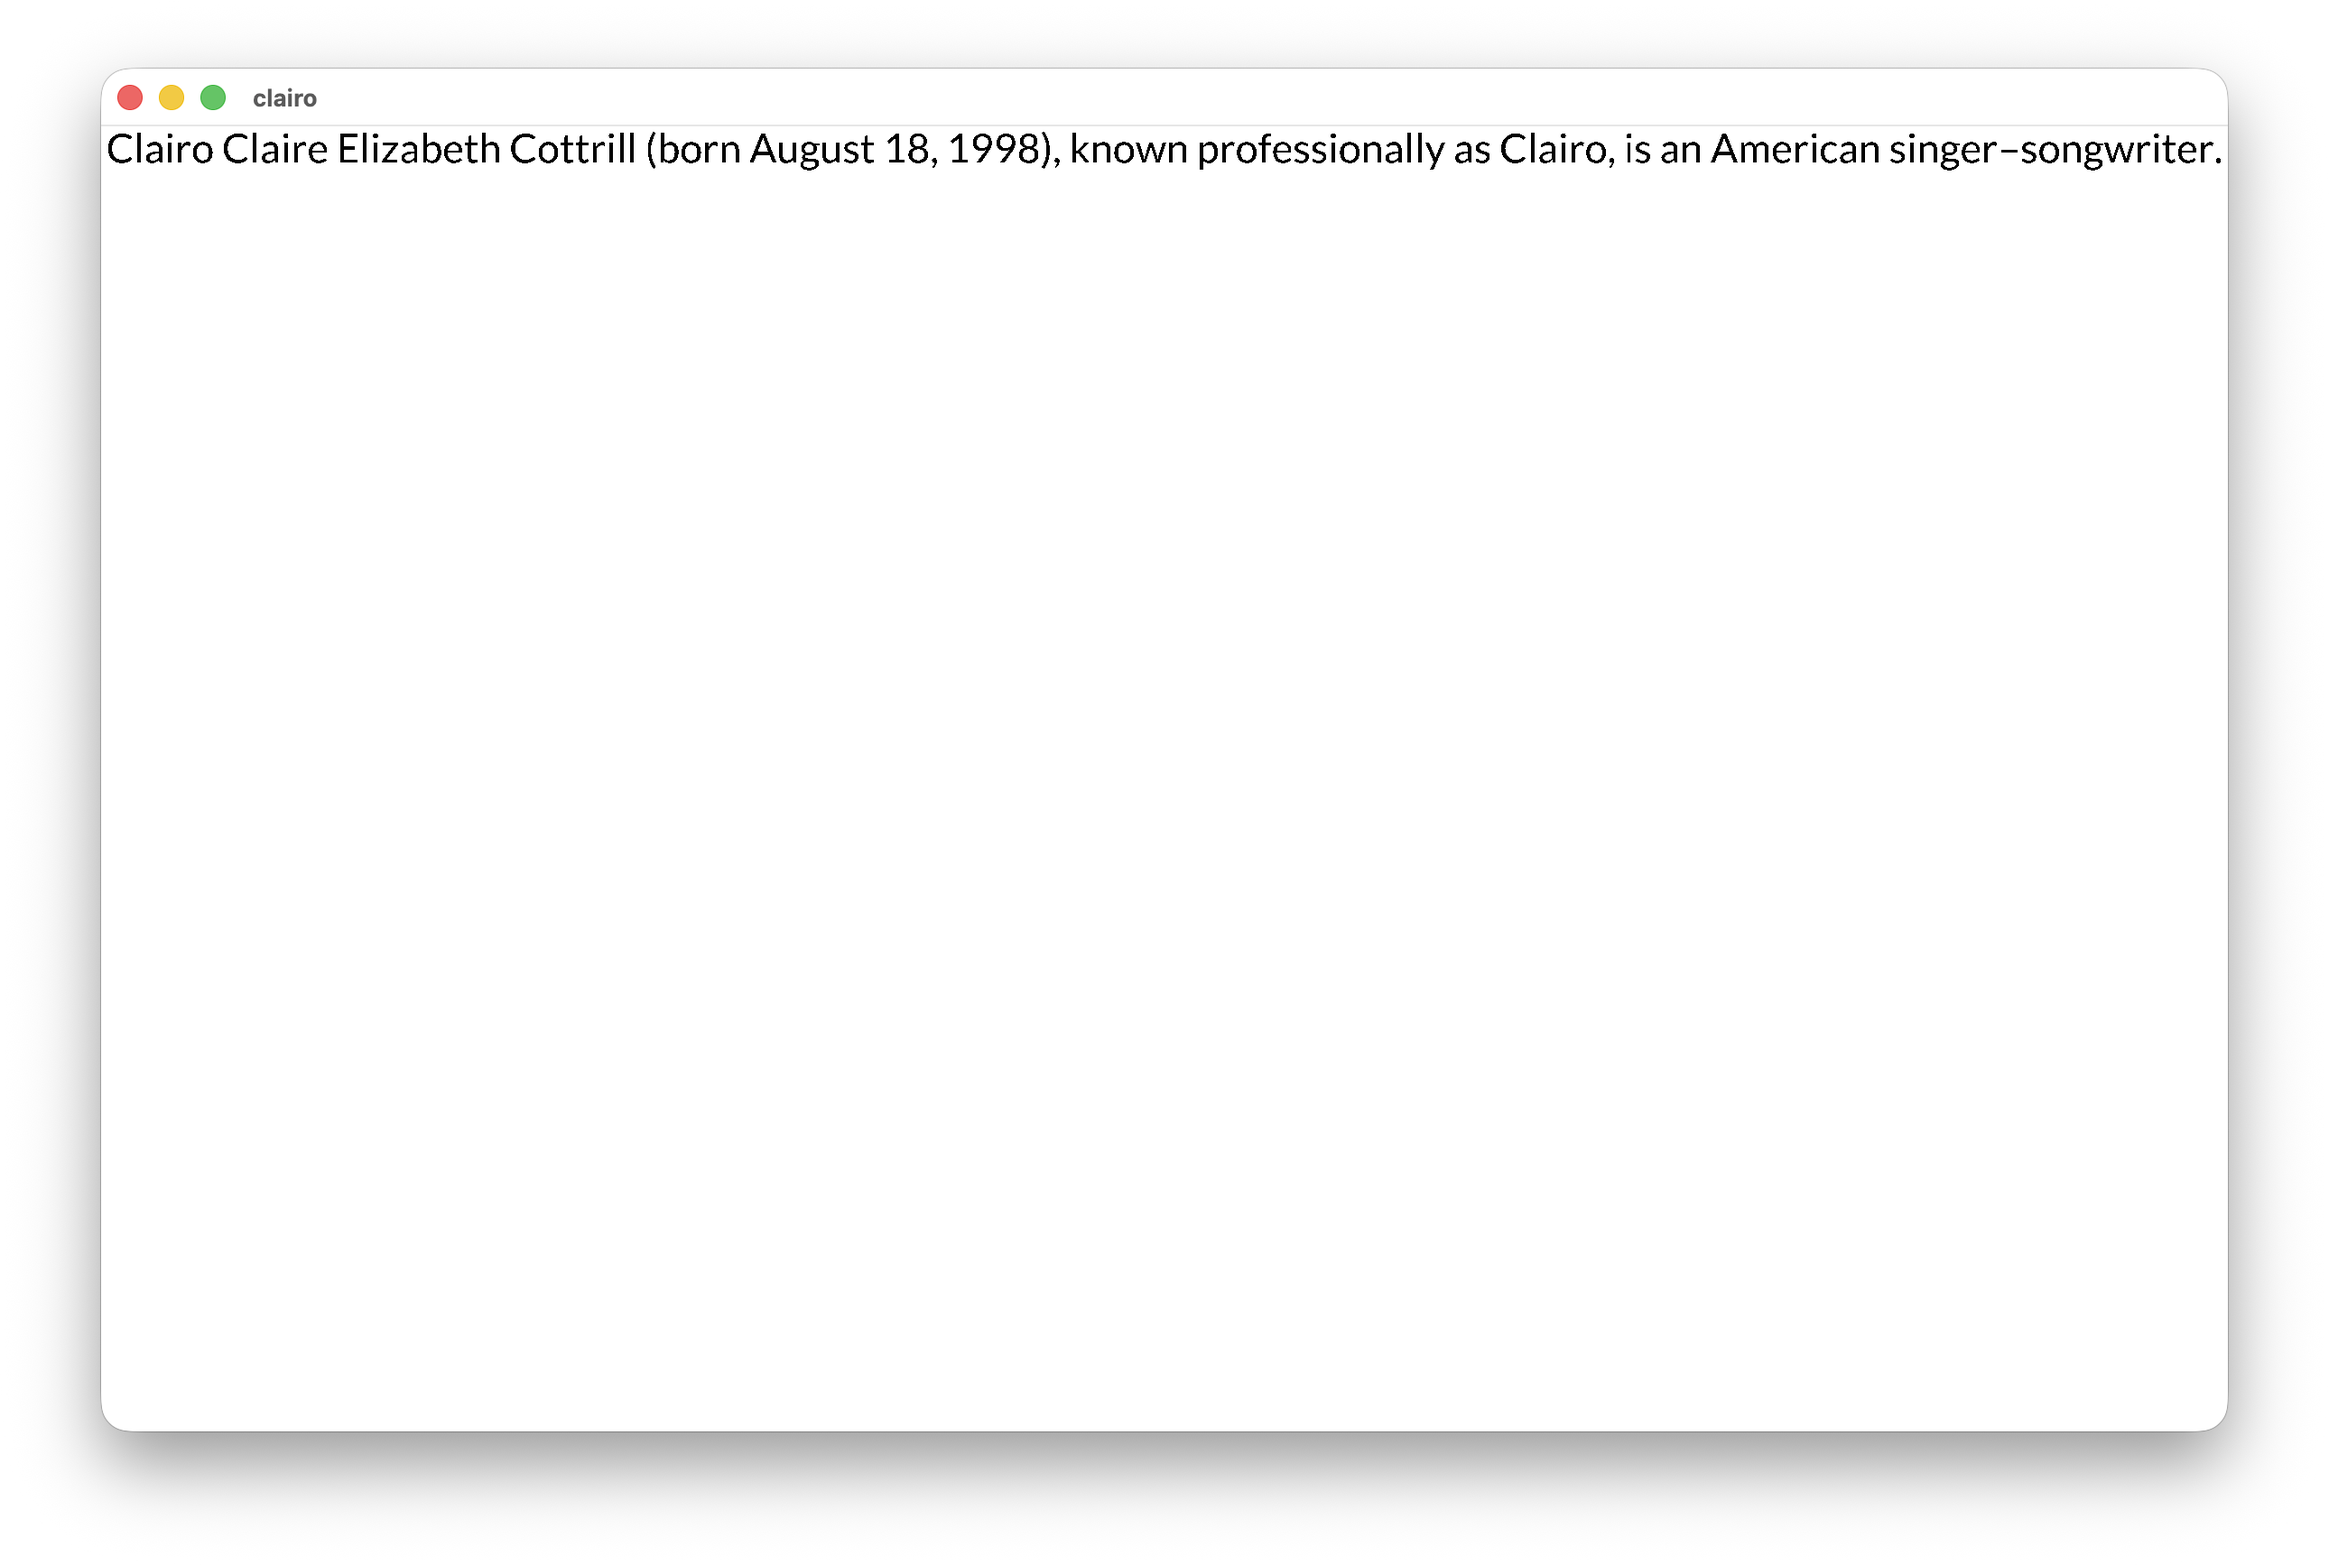
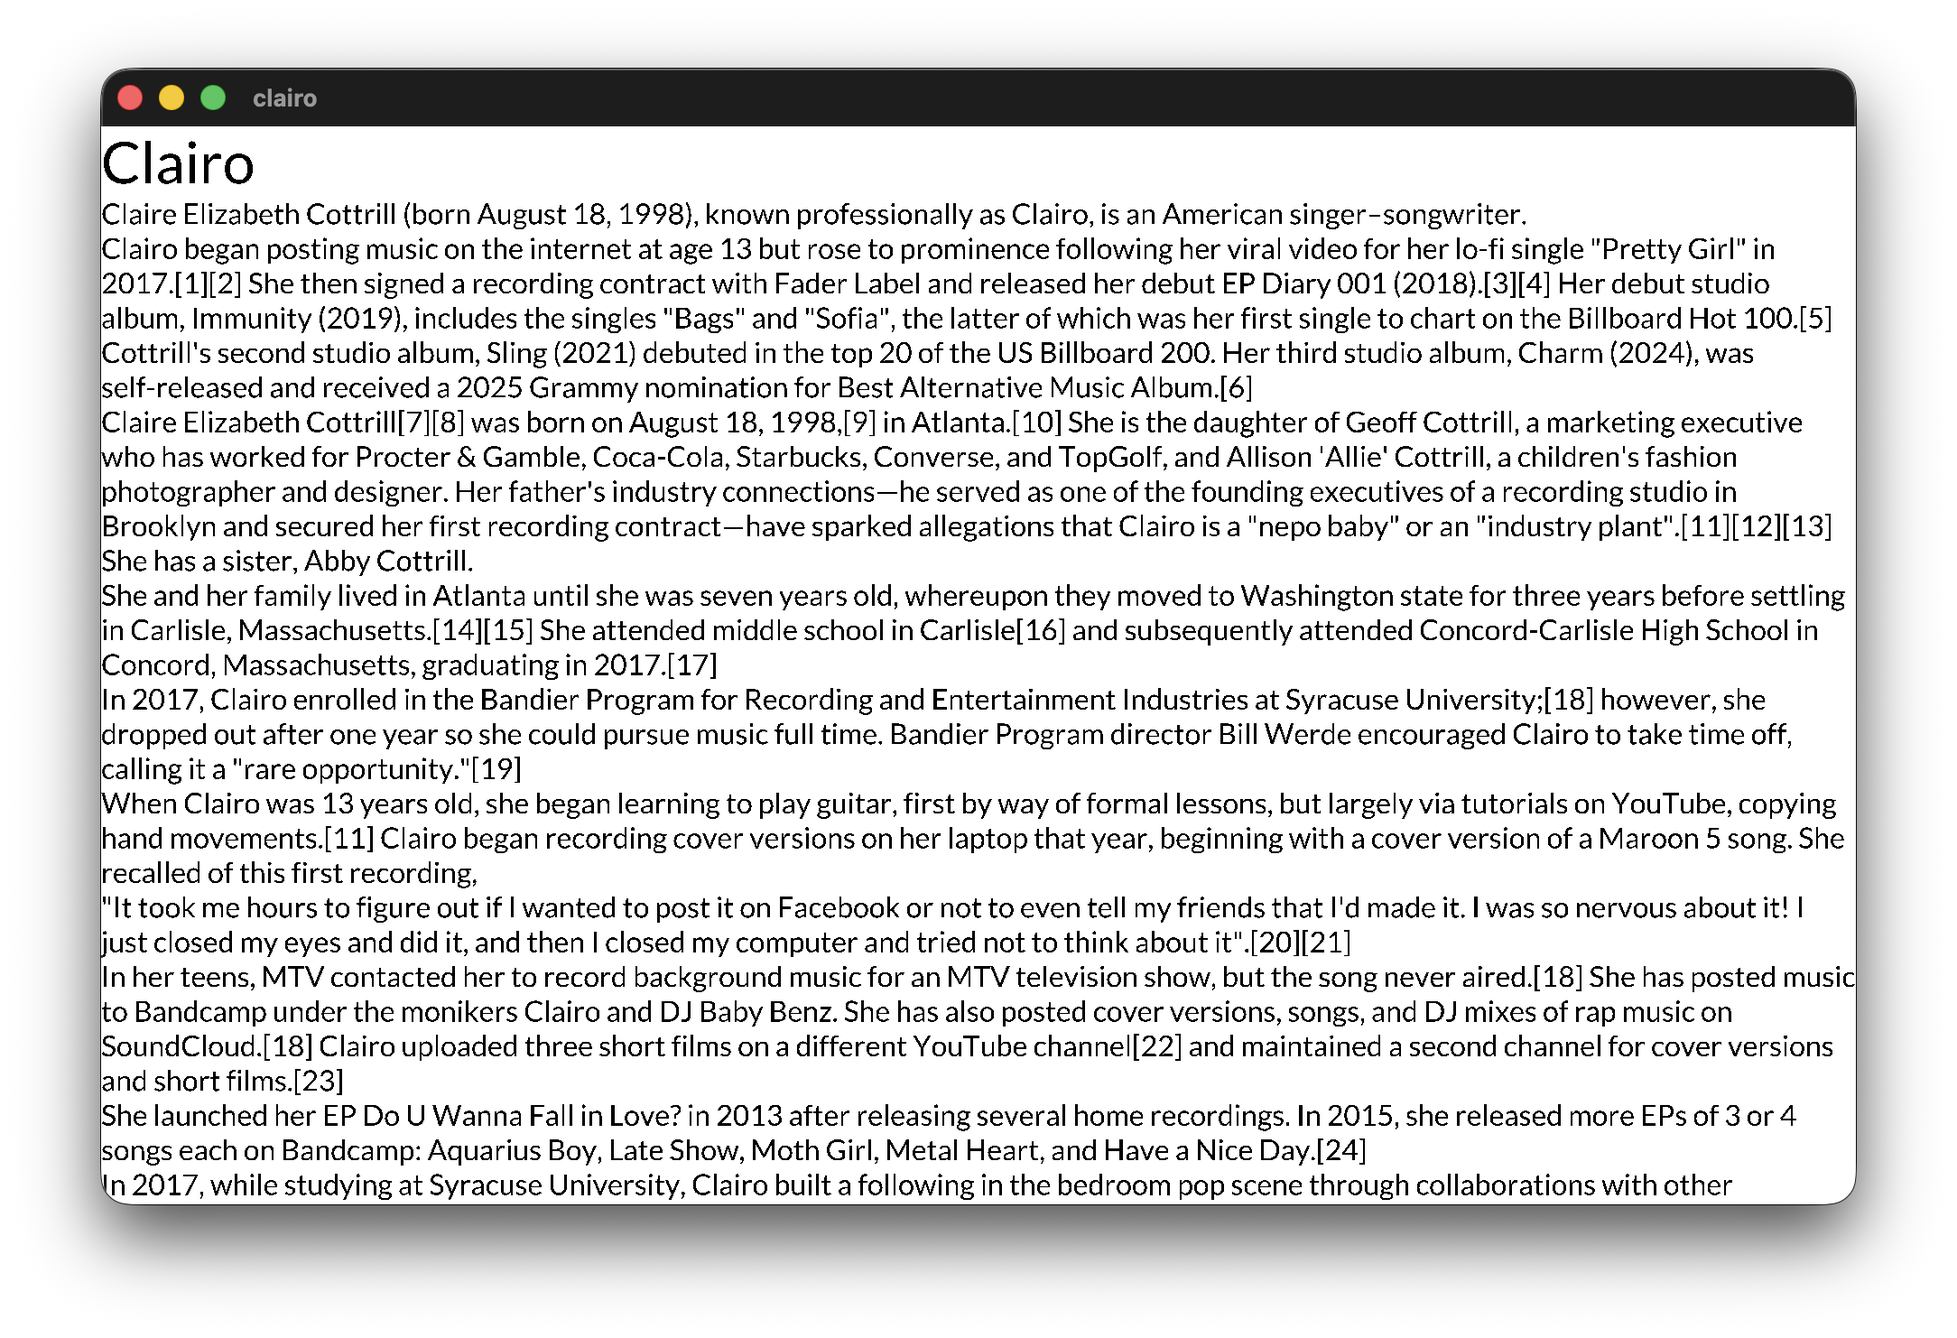
update progress image

Changed region(s): [[0.0309, 0.031, 0.958, 0.9312]]

diff --git a/README.md b/README.md
@@ -4,8 +4,4 @@ A performative browser written in Rust and rendered with `wgpu`
 
 `clairo` aims to build a browser with several components being written from scratch. So far, it includes a true type font renderer, a deflate decompressor, image decoders, and a basic layout engine
 
-For things like tls and HTML parsing, I'm pretty content to use existing libraries
-
-So far, `clairo` can fetch a wikipedia article and render some text:
-
 <img src="progress.png" />
